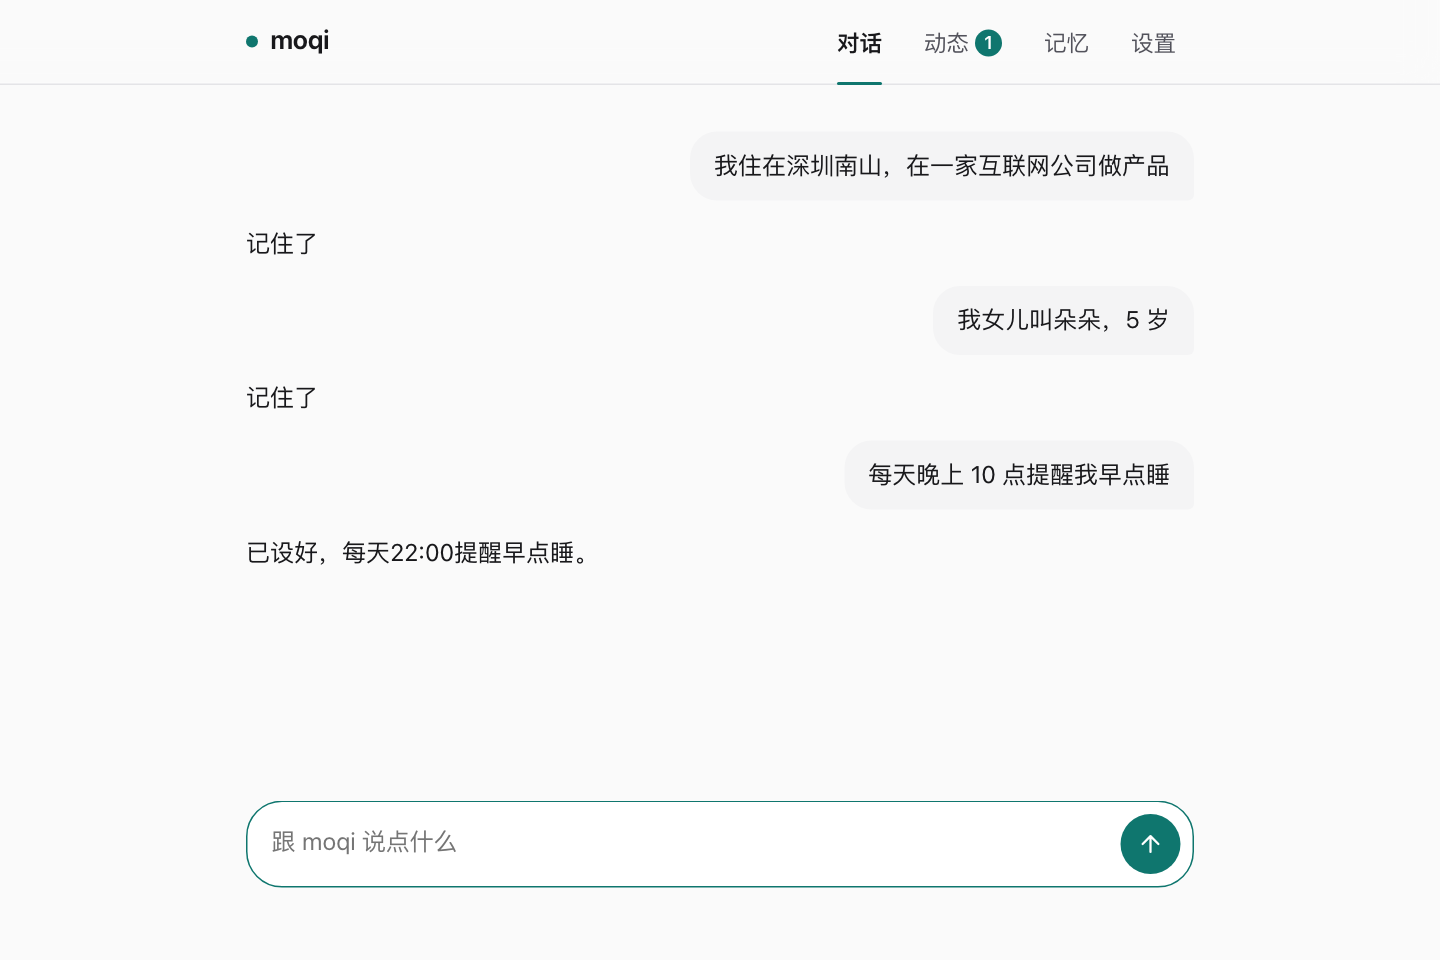
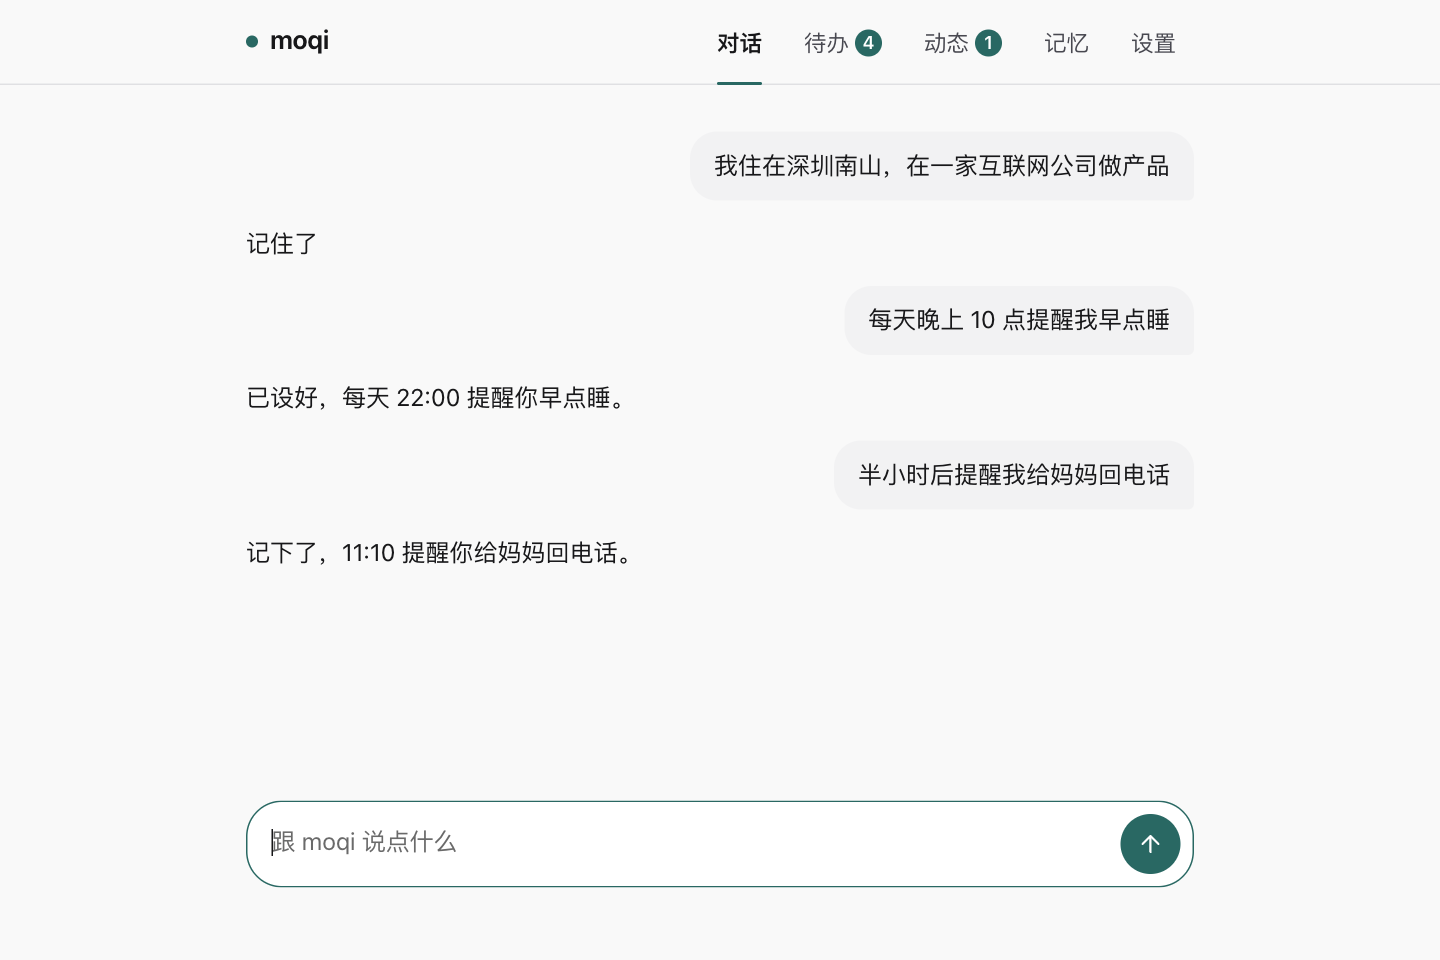
docs: Apache-2.0 with a NOTICE, todos in the READMEs, fresh screenshots

diff --git a/README.md b/README.md
@@ -1,12 +1,12 @@
 # moqi
 
-[![CI](https://github.com/wangcao-hub/moqi/actions/workflows/ci.yml/badge.svg)](https://github.com/wangcao-hub/moqi/actions/workflows/ci.yml) [![npm](https://img.shields.io/npm/v/moqi-agent)](https://www.npmjs.com/package/moqi-agent) [![license](https://img.shields.io/badge/license-MIT-blue)](./LICENSE)
+[![CI](https://github.com/wangcao-hub/moqi/actions/workflows/ci.yml/badge.svg)](https://github.com/wangcao-hub/moqi/actions/workflows/ci.yml) [![npm](https://img.shields.io/npm/v/moqi-agent)](https://www.npmjs.com/package/moqi-agent) [![license](https://img.shields.io/badge/license-Apache--2.0-blue)](./LICENSE)
 
 **A personal agent you don't have to ask.** moqi (默契, "tacit understanding") learns you from everyday life, speaks up first when it matters, and gets better at both the more you use it.
 
 [中文文档](./README.zh-CN.md) · [Design (Chinese)](./docs/design.md) · Built on [taugraph](https://github.com/wangcao-hub/taugraph)
 
-Most assistants wait to be asked. moqi works the other way round. Every couple of hours, and soon after you talk to it, it thinks about you on its own: what it could do for you, what it should ask to understand you better, which news matters to you. Ask the same thing three mornings in a row and on the fourth it tells you unasked; if it will rain tomorrow it reminds you the evening before. It also knows when to stay quiet: no interruptions at night, at most three a day, and less of whatever you keep dismissing.
+Most assistants wait to be asked. moqi works the other way round. Every couple of hours, and soon after you talk to it, it thinks about you on its own: what it could do for you, what it should ask to understand you better, which news matters to you. Ask the same thing three mornings in a row and on the fourth it tells you unasked; if it will rain tomorrow it reminds you the evening before. Tell it what you have to do and it keeps the list: a reminder at the time you set always arrives, and what you did not finish moves to tomorrow. It also knows when to stay quiet: no interruptions at night, at most three a day, and less of whatever you keep dismissing.
 
 The core is plain TypeScript with no Node-only APIs, so the same code runs on a computer and inside a phone app.
 
@@ -21,6 +21,7 @@ flowchart LR
     cal[Calendar]
     wx[Weather]
     rss[News]
+    todo[Your todos]
   end
   log[("events.jsonl<br/>append-only")]
   subgraph understand [Understand]
@@ -45,16 +46,18 @@ flowchart LR
   react -->|accept · ignore · dismiss · mute| log
 ```
 
-How one offer reaches you. The numbers are the defaults, and every kind of offer learns its own threshold.
+How one offer reaches you. A todo reminder at the time you set goes straight to a notification; every other offer passes these checks. The numbers are the defaults, and every kind of offer learns its own threshold.
 
 ```mermaid
 flowchart LR
-  o["Offer<br/>kind · value 0–1 · urgency"] --> m{Kind<br/>muted?}
+  o["Offer<br/>kind · value 0–1 · urgency"] --> u{"At a time<br/>you set?"}
+  u -->|yes| n[Notification]
+  u -->|no| m{Kind<br/>muted?}
   m -->|no| w{"Urgency<br/>'whenever'?"}
   w -->|no| t{"value ≥ this<br/>kind's threshold?<br/>starts at 0.5"}
   t -->|yes| q{"Quiet hours?<br/>22:30–08:00"}
   q -->|no| b{"Under 3<br/>notifications<br/>today?"}
-  b -->|yes| n[Notification]
+  b -->|yes| n
   m -->|yes| drop[Dropped]
   w -->|yes| feed[Feed]
   t -->|no| feed
@@ -94,6 +97,8 @@ The console lives at **http://moqi.localhost:6674** (6674 spells MOQI on a phone
 
 It has five tabs: **Chat**, **Todos** (today, later and recently done: tick off, delete, or add one with an optional day and reminder time), **Feed** (what moqi wants to tell you, its questions with an answer box, and "moqi 在想": every idea it had and what became of it), **Memory** (what it remembers about you, what it learned on its own, and what it watches for you; delete anything wrong) and **Settings**. The first time, it opens on Settings: pick a model, press "test connection", search for your city, pick news feeds, save. Changes apply at once, without a restart. The console's own text is in Chinese for now.
 
+![The Todos tab](./docs/todos.png)
+
 Any OpenAI-compatible model works. A local Ollama needs no key: `qwen3:4b` (2.5 GB) runs anywhere, and [Muse Glimmer](https://ollama.com/library/muse-glimmer), Meta's open-weights model for always-on local agents, thinks far better if you have the room (about 18 GB on disk, 24 GB of memory or more). DeepSeek, Qwen and other hosted models need a key. If replies get cut off as a conversation grows, give Ollama a larger context window, e.g. `OLLAMA_CONTEXT_LENGTH=16384 ollama serve`.
 
 | Command       | What it does                                                                                                         |
@@ -108,6 +113,15 @@ Any OpenAI-compatible model works. A local Ollama needs no key: `qwen3:4b` (2.5 
 | `moqi init`   | Writes a config template, for machines without a browser                                                             |
 
 The background moqi reaches you through system notifications (macOS, Linux) and the console's feed. One moqi owns a home directory at a time; the console, `moqi brief` and (later) the phone all go through it.
+
+Things to say, for a start (moqi answers in Chinese):
+
+| Say                                      | What happens                                                                 |
+| ---------------------------------------- | ---------------------------------------------------------------------------- |
+| `我住在深圳南山，在一家互联网公司做产品` | It remembers where you live and what you do                                  |
+| `半小时后提醒我给妈妈回电话`             | A todo with a reminder in 30 minutes; it arrives on time, quiet hours or not |
+| `明天下午三点提醒我交报告`               | The same for tomorrow at 15:00; it is in tomorrow's briefing too             |
+| `每天早上告诉我天气`                     | A watch; moqi asks once in the console before it sets it up                  |
 
 ## Working with other agents (MCP and A2A)
 
@@ -251,10 +265,12 @@ What leaves your computer: requests to the model endpoint you configured (the co
 
 ## Status and limits
 
-moqi runs on a computer: core, console, CLI, weather and calendar plugins, notifications, watches, routines and background learning.
+moqi runs on a computer: core, console, CLI, weather, calendar and news plugins, notifications, todos and reminders, watches, routines, reflection and study, and MCP and A2A in both directions.
 
 - The phone app and multi-device sync are next. The core already follows the rules needed to run on a phone, and a test enforces them.
 - Repeating calendar events (RRULE) are not expanded yet.
+- Notifications have no buttons (on macOS they come from `osascript`). Tick a reminder off in the console's Feed or Todos tab, or tell moqi in chat.
+- Todos do not repeat. For something every day or every week, ask for a reminder in those words and moqi sets up a watch.
 - Small local models (4B) sometimes record one-off requests as facts. Check with `/memory`; ask moqi to forget anything wrong.
 - Reflection is only as good as the model. With `qwen3:4b` a reflection takes about a minute and yields one to three ideas, sometimes none; a bigger model, such as [Muse Glimmer](https://ollama.com/library/muse-glimmer) locally or a hosted one, thinks much better.
 - `auto-undo` currently means "do it and tell you"; undoing is the matching cancel action.
@@ -270,4 +286,6 @@ pnpm check      # typecheck, lint, tests (pinned to Asia/Shanghai)
 
 ## License
 
-[MIT](./LICENSE)
+[Apache License 2.0](./LICENSE). You may use, change and redistribute moqi, also in commercial products. If you ship moqi or a work based on it, include the [LICENSE](./LICENSE) and [NOTICE](./NOTICE) files, so the credit to moqi travels with your copy, and mark the files you changed.
+
+Versions up to 0.5.0 were released under the MIT License, and those copies stay under it.

diff --git a/CHANGELOG.md b/CHANGELOG.md
@@ -2,6 +2,8 @@
 
 ## [Unreleased]
 
+- License: Apache-2.0 from this version, with a NOTICE file that copies and derived works must keep. Versions up to 0.5.0 stay under MIT.
+
 ## [0.5.0] - 2026-11-23
 
 - Todos: a list of what you mean to do, by day, with reminders at a time you set. Those reminders always arrive, in quiet hours and past the daily budget, without using it; a reminder more than half an hour late is treated as an ordinary offer. Unfinished todos roll over and show how many days they were put off; at 21:00 (`todoReviewAt`) moqi lists what is left. Add them in chat ("明天下午三点提醒我交报告"), in the console's new 待办 tab, or from other agents with `moqi_todo`. moqi also learns from them: reflection hears todos you mentioned without asking and offers to keep them, a todo added for three days becomes a daily reminder offer, and study reviews which reminders get done and which get put off.
